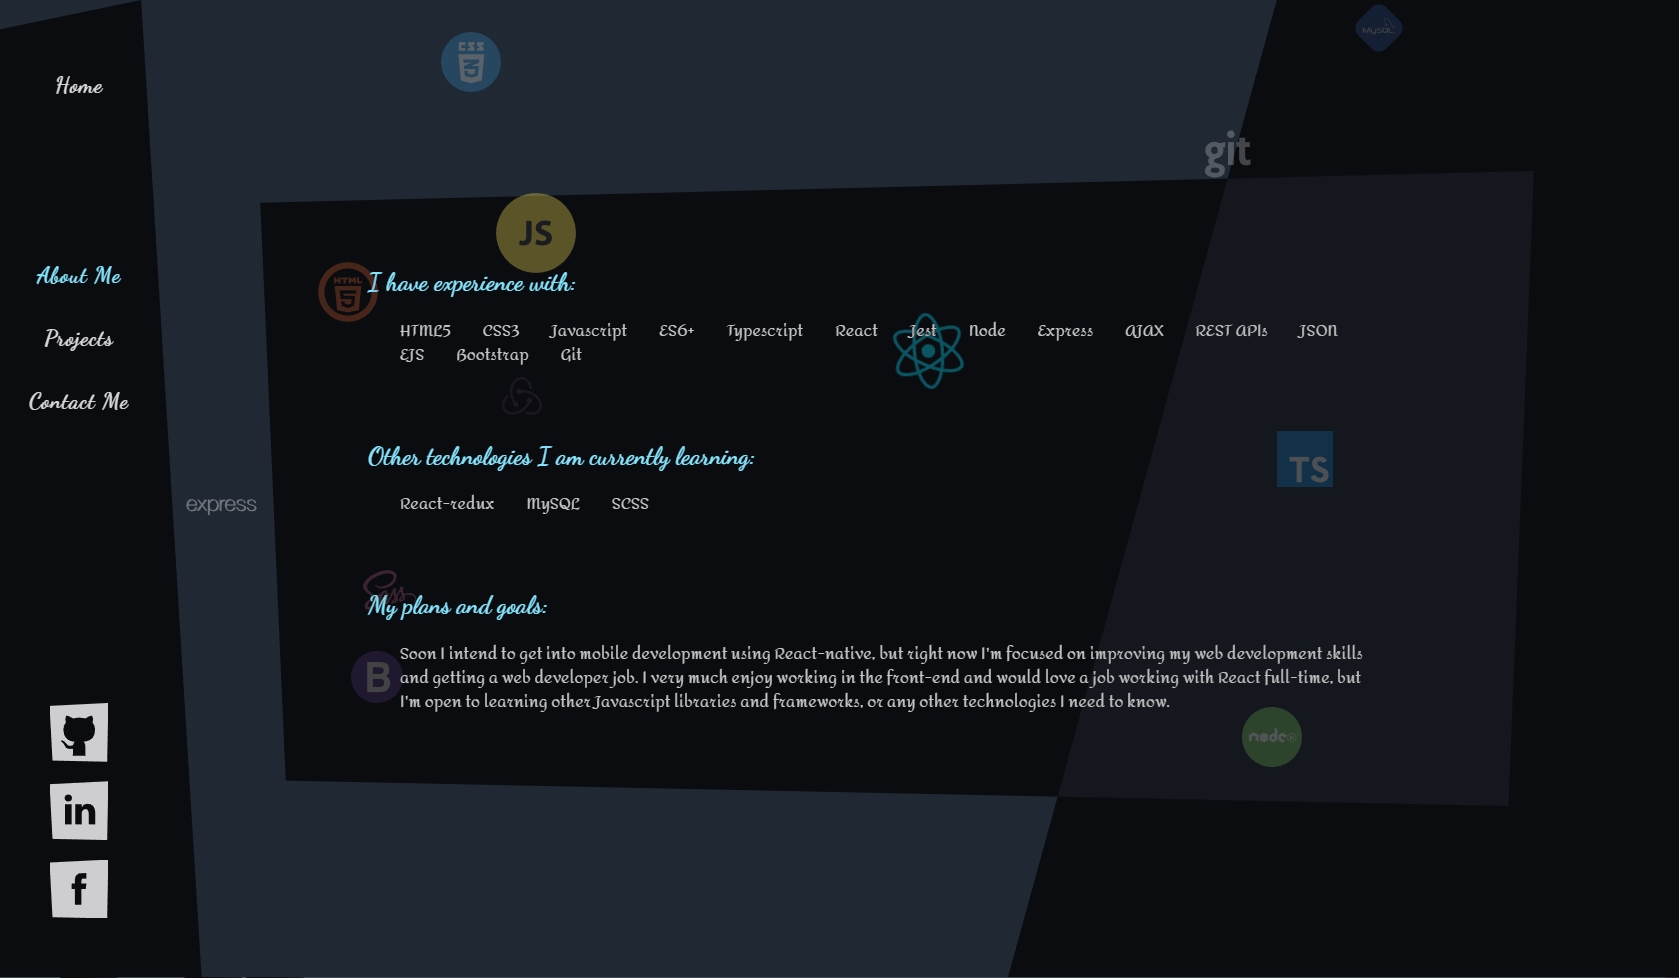
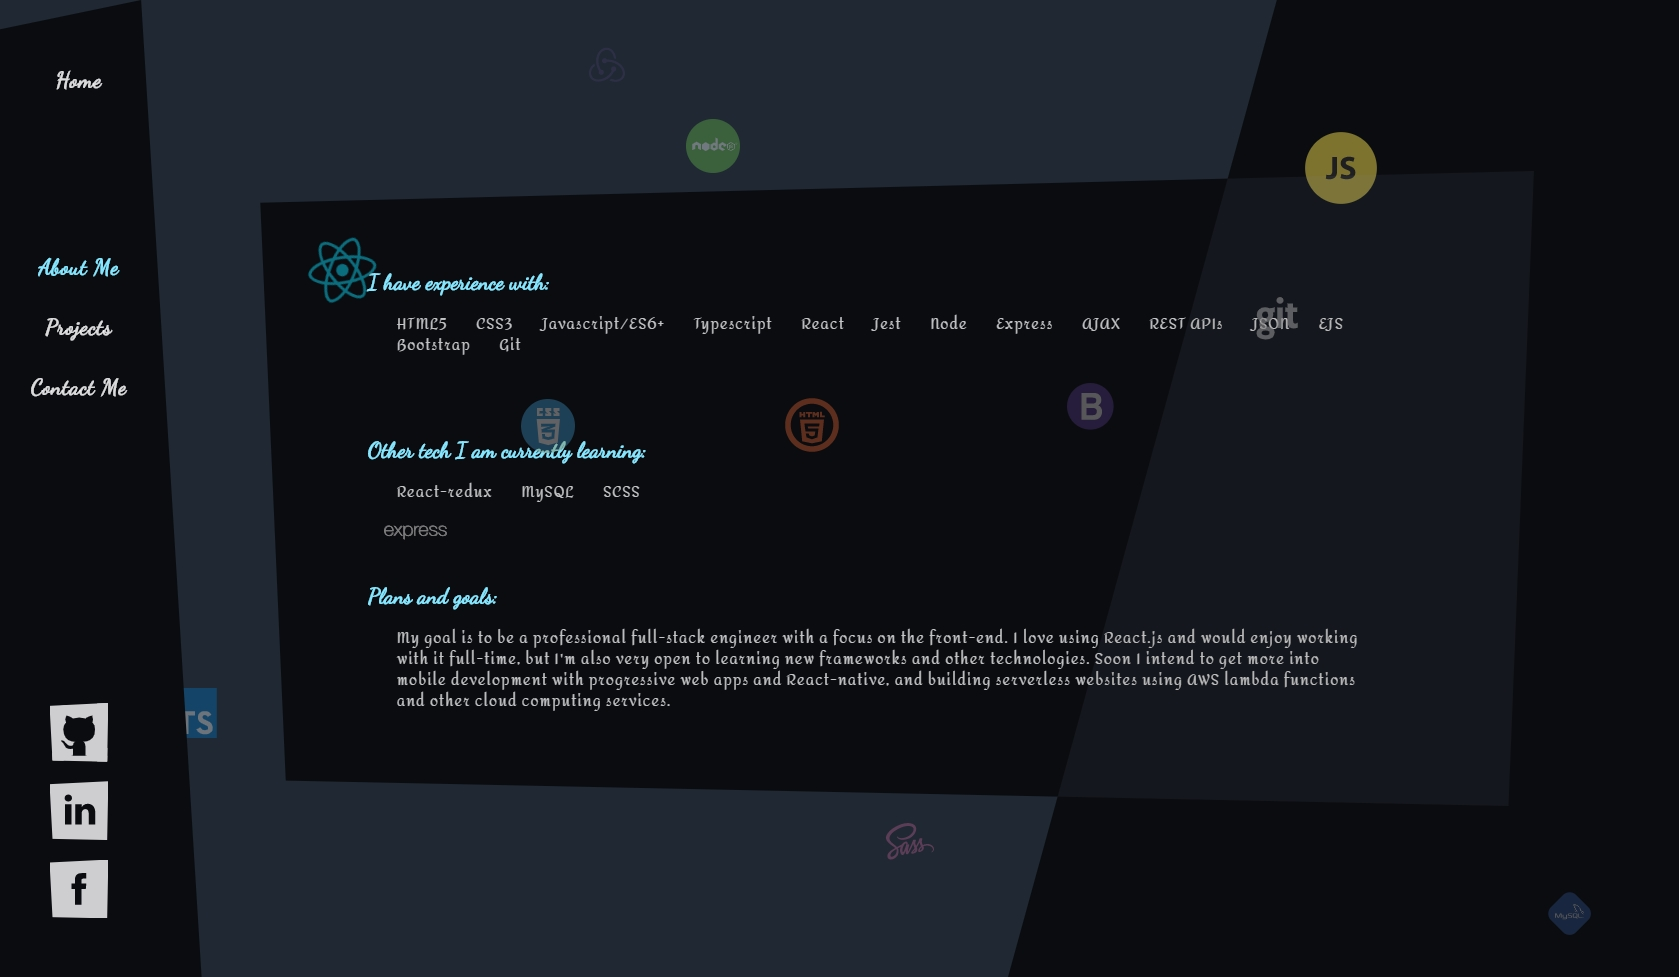
fixed some mobile styling issues, added README.md, reworded something in about-me and home pages

diff --git a/src/components/AboutPage.tsx b/src/components/AboutPage.tsx
@@ -14,8 +14,7 @@ const AboutMe = () => {
                     <ul>
                         <li>HTML5</li>
                         <li>CSS3</li>
-                        <li>Javascript</li>
-                        <li>ES6+</li>
+                        <li>Javascript/ES6+</li>
                         <li>Typescript</li>
                         <li>React</li>
                         <li>Jest</li>
@@ -30,7 +29,7 @@ const AboutMe = () => {
                     </ul>
                 </section>
                 <section className='about-me-container'>
-                    <h2>Other technologies I am currently learning:</h2>
+                    <h2>Other tech I am currently learning:</h2>
                     <ul>
                         <li>React-redux</li>
                         <li>MySQL</li>
@@ -38,12 +37,11 @@ const AboutMe = () => {
                     </ul>
                 </section>
                 <section className='about-me-container'>
-                    <h2>My plans and goals:</h2>
+                    <h2>Plans and goals:</h2>
                     <p>
-                        Soon I intend to get into mobile development using React-native, but right now I'm focused on improving my web development 
-                        skills and getting a web developer job.  I very much enjoy working in the front-end and would love a job working 
-                        with React full-time, but I'm open to learning other Javascript libraries and frameworks, or any other technologies I need 
-                        to know.
+                        My goal is to be a professional full-stack engineer with a focus on the front-end.  I love using React.js and would enjoy working with it full-time, 
+                        but I'm also very open to learning new frameworks and other technologies.  Soon I intend to get more into mobile development with progressive 
+                        web apps and React-native, and building serverless websites using AWS lambda functions and other cloud computing services.
                     </p>
                 </section>
             </div>

diff --git a/src/styles/modal-project.css b/src/styles/modal-project.css
@@ -142,6 +142,7 @@
     font-size: .8rem;
     margin: 1rem auto;
     font-style: italic;
+    letter-spacing: .5px;
 }
 
 .project-modal .article-content .description {
@@ -296,6 +297,10 @@
         width: 96%;
     }
 
+    .project-modal .main .content .modal-article .date {
+        margin: 0 auto;
+    }
+
     .project-modal .main .content .article-content img {
         margin: 0 auto;
     }
@@ -322,14 +327,13 @@
     }
 
     .project-modal .article-content .project-links {
-        position: fixed;
+        position: absolute;
         bottom: 0;
         left: 0;
         width: 100%;
         margin: 0 auto;
         justify-content: flex-start;
         align-items: center;
-        height: 6vh;
         z-index: 4;
         padding: 0;
         background-color: var(--colorful-medium);
@@ -343,20 +347,20 @@
     }
     
     .project-modal .article-content .description {
-        margin-bottom: 1rem;
+        margin-bottom: 2rem;
     }
 
     .hide-scroll {
         visibility: visible;
         box-sizing: border-box;
-        position: fixed;
+        position: absolute;
         right: 5px;
         height: 100%;
         width: 10px;
         background-color: var(--colorful-medium);
         z-index: 3;
         opacity: 0;
-        transition: .5s;
+        transition: opacity .5s;
     }
     
     .modal-article.inactive .hide-scroll {
@@ -368,10 +372,14 @@
     }
 }
 
-@media (max-height: 400px) {
+@media (max-height: 450px) {
     .project-modal .image {
         margin: 0 auto;
         height: 50%; 
         width: 50%;
+    }
+
+    .article-content figcaption {
+        line-height: 1rem;
     }
 }

diff --git a/src/components/EmailModal.tsx b/src/components/EmailModal.tsx
@@ -3,17 +3,17 @@ import React from 'react'
 interface IProps {
     emailSuccessful: boolean,
     isModalOpen: boolean,
-    message: string,
+    name: string,
     setIsModalOpen(val: boolean): void,
     setEmailSuccessful(val: boolean): void
     clearFields(): void;
 }
 
-const EmailModal: React.FC<IProps> = ({ emailSuccessful, setEmailSuccessful, isModalOpen, setIsModalOpen, message, clearFields }) => {
+const EmailModal: React.FC<IProps> = ({ emailSuccessful, setEmailSuccessful, isModalOpen, setIsModalOpen, name, clearFields }) => {
     const handleToggleModal = () => {
         setIsModalOpen(false);
         setTimeout(() => setEmailSuccessful(false), 700);
-        message && clearFields();
+        name && clearFields();
     }
     return (
         <div 
@@ -26,11 +26,11 @@ const EmailModal: React.FC<IProps> = ({ emailSuccessful, setEmailSuccessful, isM
                     <div className='close-button close-modal'>X</div>
                     <div className='email-message'>
                         {
-                            message 
+                            name 
                             ?
                                 <>
-                                    <div>Email Sent!</div>
-                                    <p>Hi, {message}.  Expect a reply within 1-2 days.</p>
+                                    <div>Email successfully sent!</div>
+                                    <p>Hello, {name}.  I'll be getting back to you in 1-2 days.</p>
                                 </>
                             : 
                                 <>

diff --git a/src/components/Project.tsx b/src/components/Project.tsx
@@ -14,9 +14,9 @@ const Project: React.SFC<IProps> = ({ name, index, setProject, id }) => {
     const project = useRef<HTMLDivElement | null>(null);
 
     const handleCheckIfFocused = () => {
-        const projDiv = project.current!.getBoundingClientRect();
-        const topCheck = projDiv.top > 0
-        const bottomCheck = projDiv.bottom < window.innerHeight;
+        const { top, bottom, height } = project.current!.getBoundingClientRect();
+        const topCheck = top + (height / 2) > 0
+        const bottomCheck = bottom - (height / 2) < window.innerHeight;
         
         return topCheck && bottomCheck;
     }

diff --git a/src/components/ContactPage.tsx b/src/components/ContactPage.tsx
@@ -161,7 +161,7 @@ const ContactMe = () => {
                 emailSuccessful={emailSuccessful} 
                 setEmailSuccessful={setEmailSuccessful} 
                 isModalOpen={isModalOpen} setIsModalOpen={setIsModalOpen}
-                message={emailModalMessage}
+                name={emailModalMessage}
             />
             <div className='decorative-1' />
         </div>

diff --git a/src/styles/nav-mobile.css b/src/styles/nav-mobile.css
@@ -183,7 +183,7 @@
     background-image: url('../SVGs/facebook.svg');
 }
 
-@media (max-height: 400px) {
+@media (max-height: 450px) {
     .mobile-nav .social-media div {
         width: 1.5rem;
         height: 1.5rem;

diff --git a/src/styles/projects-page.css b/src/styles/projects-page.css
@@ -251,7 +251,10 @@
     }
 
     .project-border:nth-child(1) {
-        margin: 3rem;
+        margin: 5vh auto;
+        min-height: 90vh;
+        height: 90vh;
+        max-height: 90vh;
     }
 
     .center-focus {

diff --git a/src/styles/contact-page.css b/src/styles/contact-page.css
@@ -270,7 +270,7 @@ input:-webkit-autofill {
     }
 }
 
-@media (max-height: 400px) {
+@media (max-height: 450px) {
     .contact-form {
         max-width: 80vw;
         margin: 0 auto;

diff --git a/src/styles/modal-image.css b/src/styles/modal-image.css
@@ -85,7 +85,7 @@
 }
 
 
-@media (max-height: 400px) {
+@media (max-height: 450px) {
     .modal-article .article-content img {
         text-align: center;
         max-width: 25vw;

diff --git a/src/styles/about-page.css b/src/styles/about-page.css
@@ -48,7 +48,7 @@
     }
 
     .about-me .stylish-container {
-        justify-content: space-around;
+        justify-content: flex-start;
     }
     
     .about-me-container {

diff --git a/src/App.css b/src/App.css
@@ -53,6 +53,11 @@ h2 {
   text-shadow: 0 0 2px var(--dark);
 }
 
+p, li {
+  letter-spacing: 1.3px;
+  line-height: 1.5rem;
+}
+
 .app {
   position: absolute;
   left: 0;

diff --git a/README.md b/README.md
@@ -1,0 +1,34 @@
+<div style="text-align: center; width: 100%;">
+<h1 style='margin: 2rem auto;'>Personal Portfolio Site<h1>
+
+<div style='margin: 0 auto; width: 700px'  >
+    <img src="https://raw.githubusercontent.com/gregoriB/personal-portfolio-site/experimental/src/images/portfolio-site.jpg" alt="portfolio site"/>
+</div>
+
+#### [Check it out here!](https://www.brandon-gregori.com)
+
+<div style='width: 900px; margin: 0 auto;'>
+
+Made with React, Typescript, CSS, and AWS Lambda functions for using NodeMailer. Check out the `node-express-server` branch for a Node and Express server version.
+
+</div>
+
+#
+## Install
+
+<div style='width: 900px; margin: 0 auto;'>
+
+To run locally, install `netlify-cli` with your package manager and run `netlify dev`.  After it loads, go to `https://localhost:3000`.
+
+To use NodeMailer, configure the `fetch` url in '/src/components/ContactPage.tsx' for `https://localhost:34567/sendEmail`.  Then in '/functions/sendEmail.js' either configure your own smtp email, or follow the example on the [NodeMailer](https://nodemailer.com/about/) website to use an ethereal dummy email.
+
+</div>
+
+#
+
+<p style="text-align: center; margin: 5rem auto;">
+    <a href='https://app.netlify.com/sites/brandon-gregori/deploys'>
+        <img src='https://api.netlify.com/api/v1/badges/adbf5a4d-2089-4e6a-9de4-802a3a1b25f8/deploy-status' alt='Netlify Status'>
+    </a>
+</p>
+</div>
